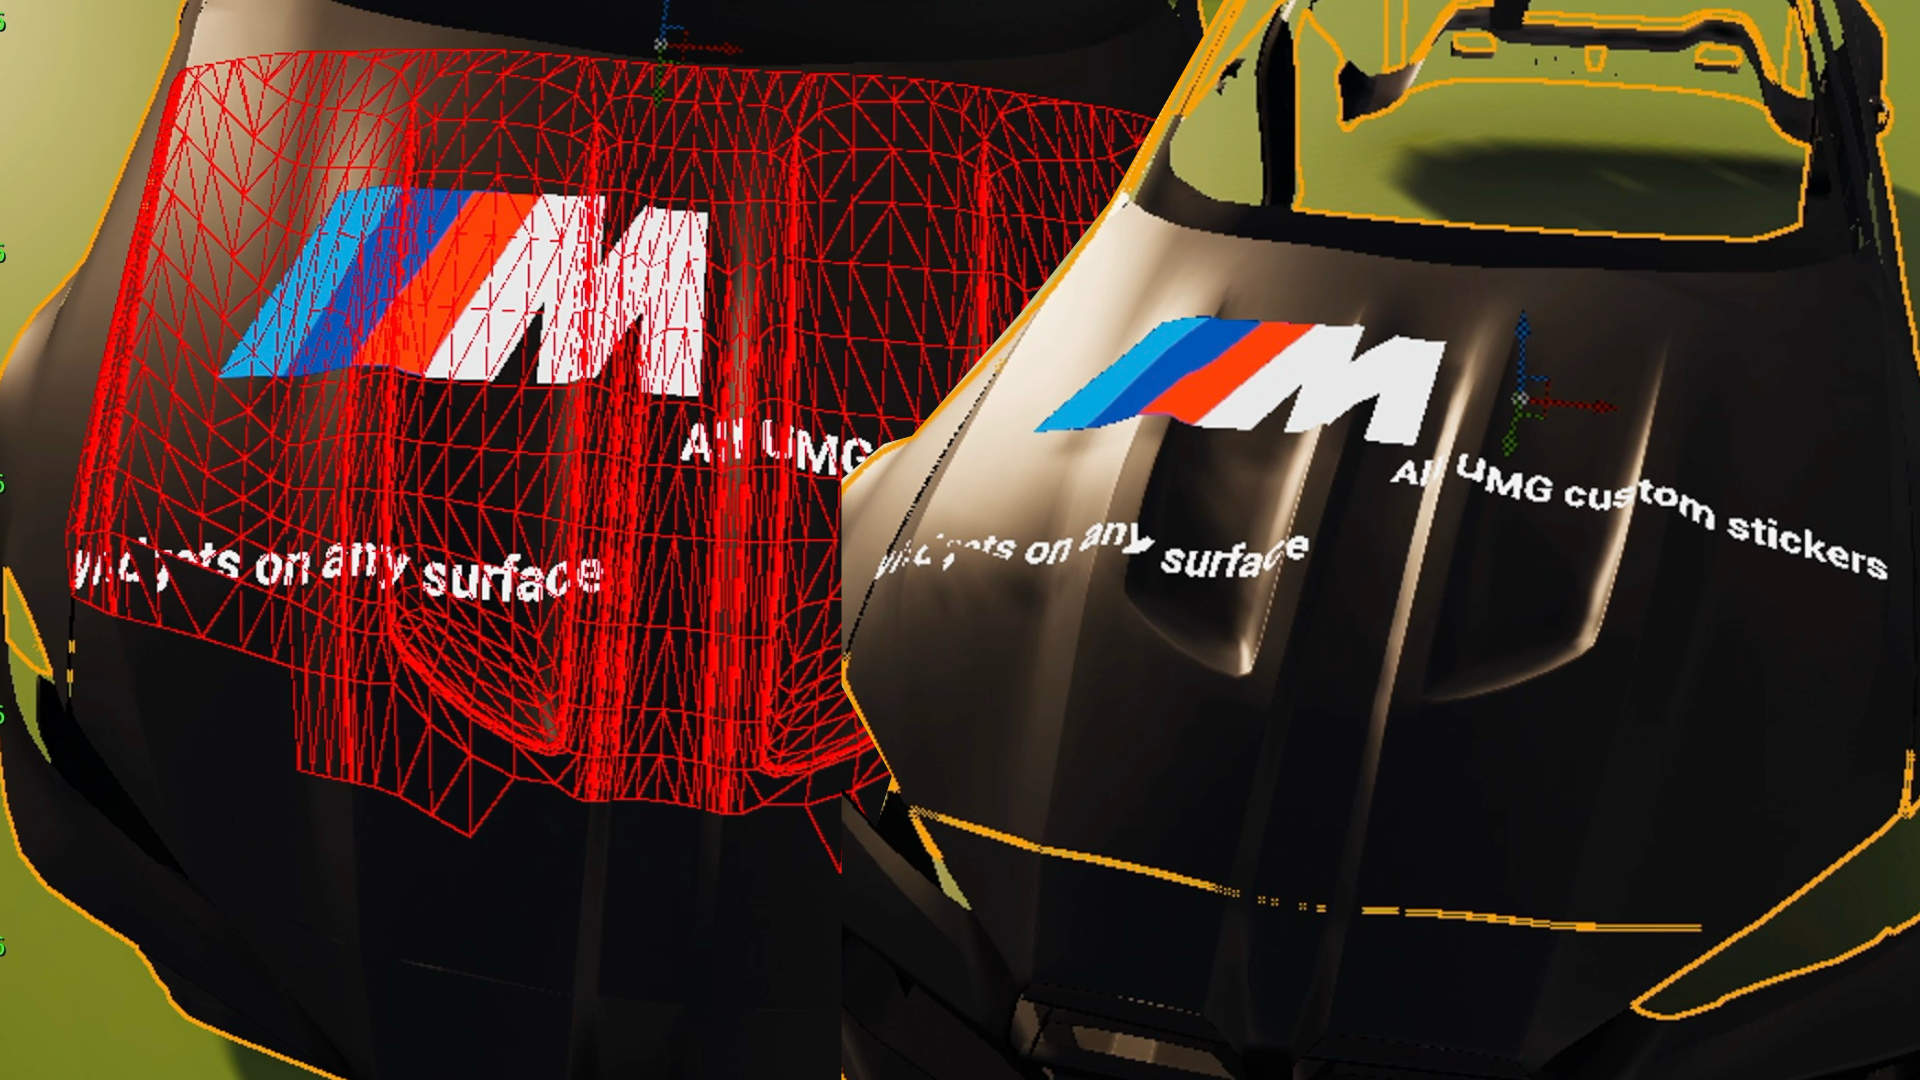
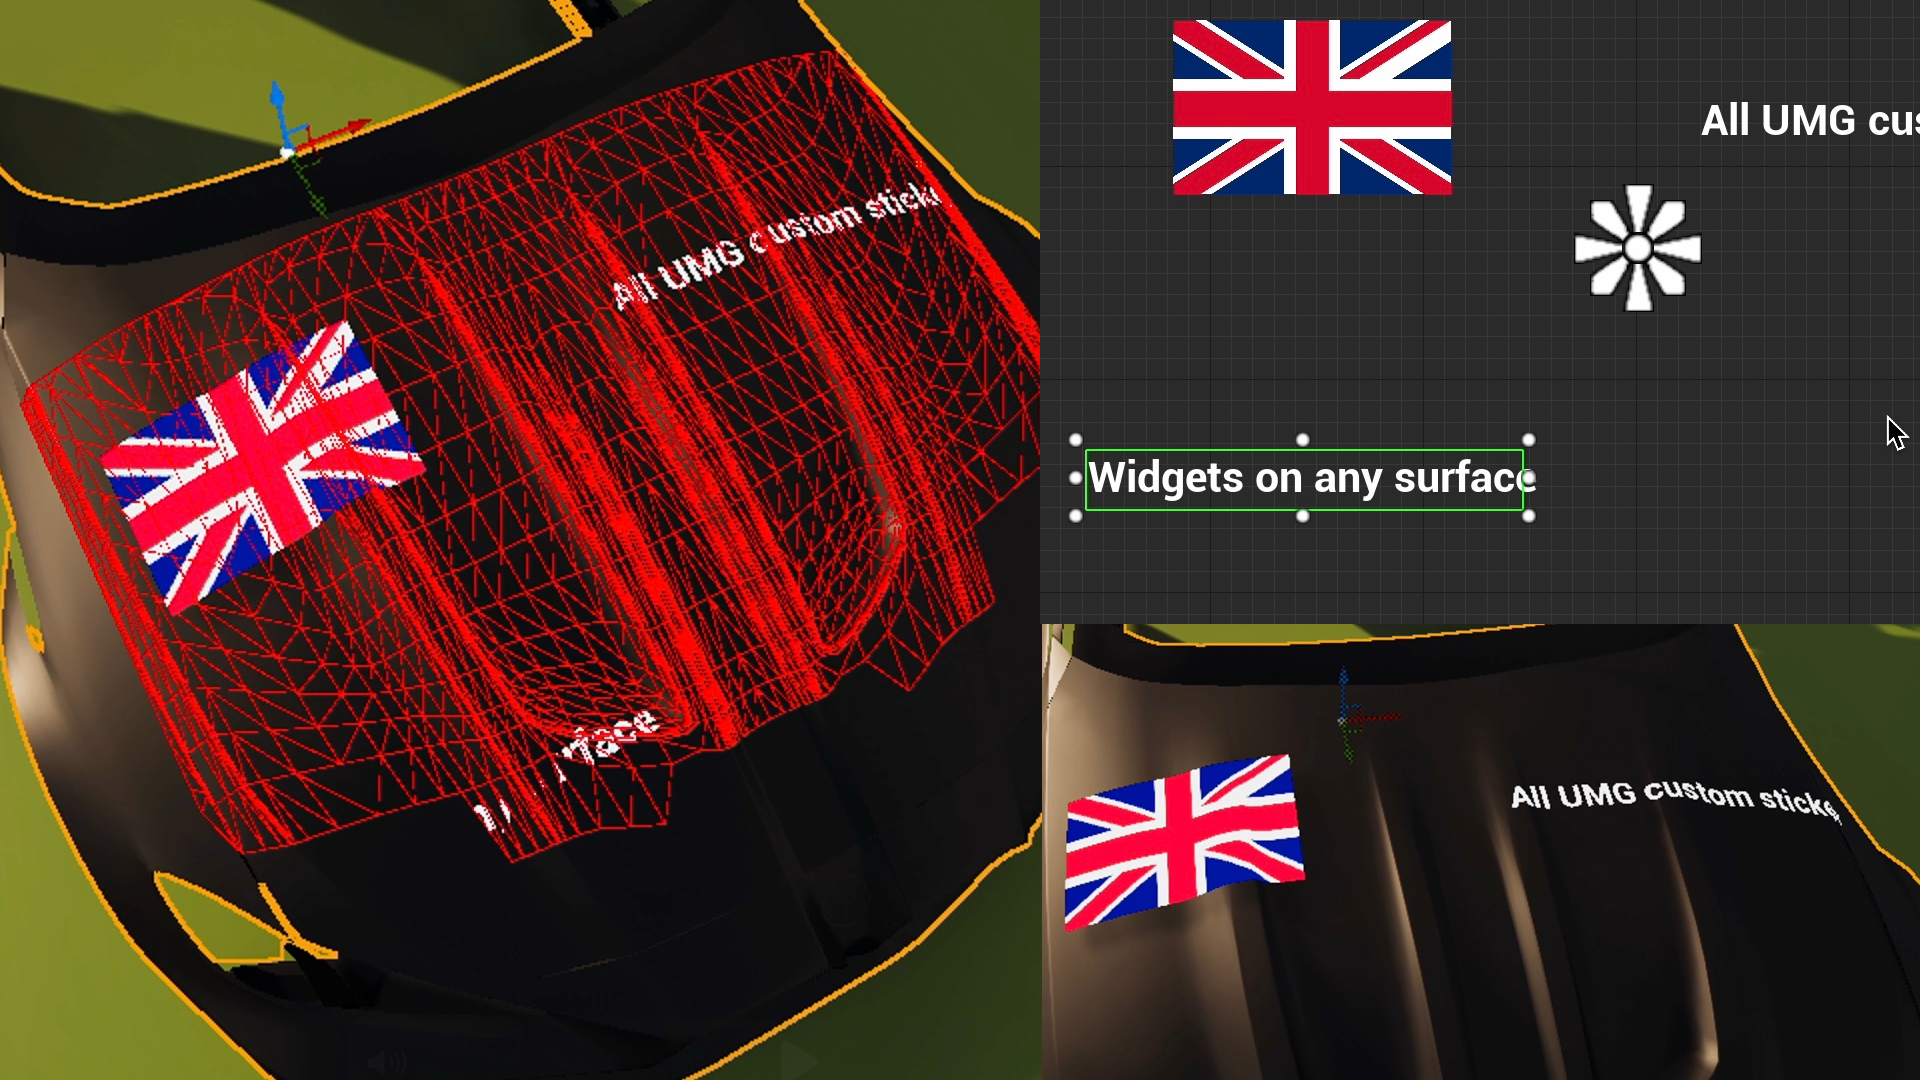
update

diff --git a/index.html b/index.html
@@ -37,6 +37,9 @@
         <div>
             <a href="#block4">Terrain generation</a>
         </div>
+        <div>
+            <a href="#block3">Decal Less Texture Projection</a>
+        </div>
     
     </div>
 
@@ -198,6 +201,70 @@
 
     </div>
 
+
+    <!-- DECAL LESS ANY MESH WIDGET-->
+    <div class="container" id="block3">
+        <div class="video-wrapper">
+            <!-- Overlay zum Verdecken des Videos -->
+            <div id="overlay-7" class="overlay" onclick="playVideo(7)"></div>
+
+
+            <!-- YouTube Video -->
+            <iframe id="video7" 
+                src="https://www.youtube.com/embed/pZl1ri3drsg?si=9H--DGV6htyUvDuE"
+                frameborder="0" 
+                allow="accelerometer; autoplay; clipboard-write; encrypted-media; gyroscope; picture-in-picture; web-share"
+                referrerpolicy="strict-origin-when-cross-origin" 
+                allowfullscreen>
+            </iframe>
+        </div>
+
+        <div class="text">
+            <h3>Decal-Less Surface Widgets</h3>
+
+            <p>
+            I developed a system in Unreal Engine for general-purpose surface extraction
+            and widget / texture projection without using GPU-expensive decals.
+            Meshes that display UMG widgets are precomputed once and stored as binaries,
+            allowing for significantly better runtime performance.
+            </p>
+
+            <p>
+            This custom algorithm enables placing any "sticker" onto any mesh.
+            The projection is defined by a plane / volume that determines the
+            location and viewing angle of the sticker.
+            </p>
+
+            <p>
+            Editing is fully accessible through Unreal Engine's native UMG editor.
+            </p>
+
+            <p>
+            All mesh extraction, planar UV mapping, and clipping algorithms are
+            fully custom-written.
+            </p>
+
+            <p>
+            To implement this system, I modified the Unreal Engine
+            UWidgetComponent and FPrimitiveSceneProxy classes.
+            </p>
+
+            <p>
+            I have over three years of experience writing custom
+            MeshData algorithms in C++.
+            </p>
+
+            <div class="barHorizontal">
+                <div class="skillbutton">C++</div>
+                <div class="skillbutton">Unreal Engine</div>
+                <div class="skillbutton">Extending UE Native Systems</div>
+                <div class="skillbutton">OOP C++</div>
+                <div class="skillbutton">Linear & 3D Algebra</div>
+                <div class="skillbutton">Mesh Data Algorithms & Custom Solutions</div>
+                <div class="skillbutton">Computer Graphics</div>
+            </div>
+        </div>
+    </div>
 
 
 
